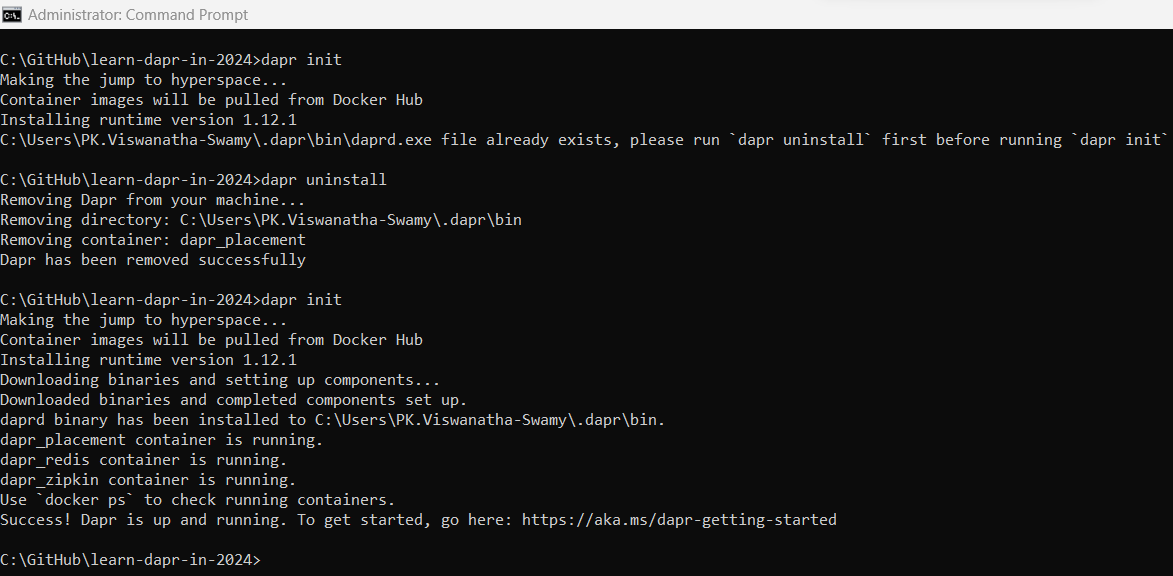
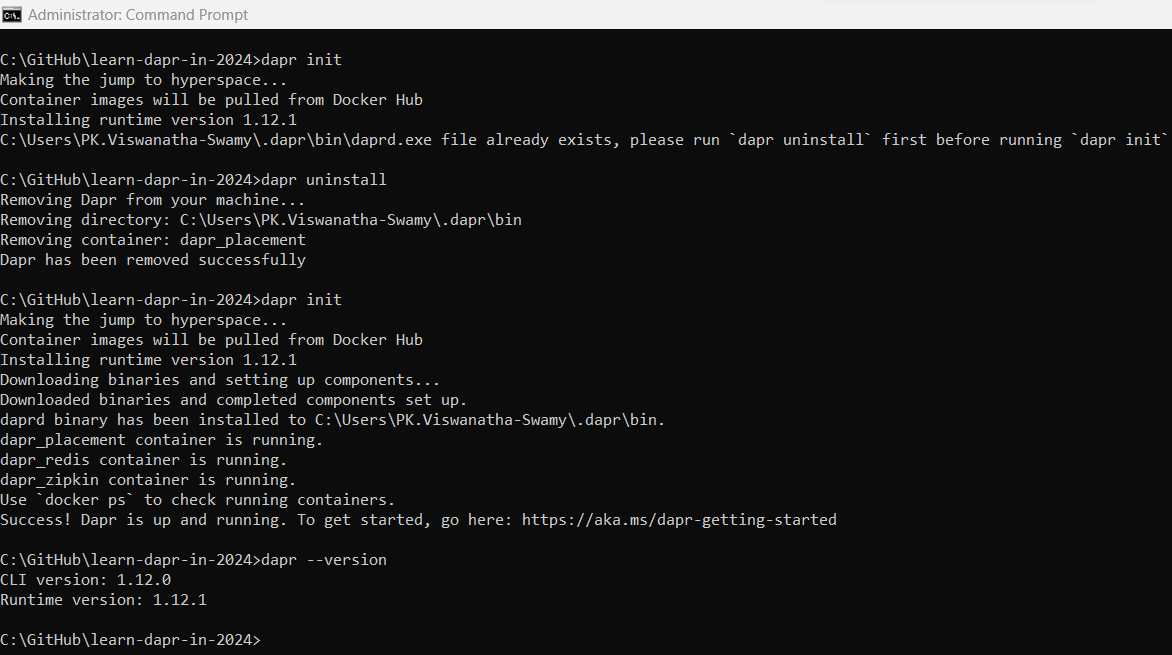
Changes

Changed region(s): [[0.0, 0.0, 1.0, 1.0]]

diff --git a/MSLearn/20nov-getting-started-dapr/README.md b/MSLearn/20nov-getting-started-dapr/README.md
@@ -66,6 +66,10 @@
 > 1. Install Dapr CLI <https://docs.dapr.io/getting-started/install-dapr-cli/>
 > 1. Verify Dapr CLI installation
 
+```bash
+dapr
+```
+
 ![Verify Dapr Installation | 100x100](./Documentation/Images/Dapr_Installation.PNG)
 
 ## 4. Initialize Dapr in your local environment
@@ -78,7 +82,6 @@
 dapr uninstall
 dapr init
 dapr --version
-docker ps
 ```
 
 ![Dapr Init | 100x100](./Documentation/Images/Dapr_Initialization.PNG)
@@ -93,7 +96,17 @@ docker ps
 
 ![Verify Dapr Installation | 100x100](./Documentation/Images/Dapr_Installation_1.PNG)
 
-## 6. Viewing the Dapr Dashboard
+## 6. Verify containers are running
+
+> 1. Discussion and Demo
+
+```bash
+docker ps
+```
+
+![Dapr Docker Containers | 100x100](./Documentation/Images/Dapr_Docker_Containers.PNG)
+
+## 7. Viewing the Dapr Dashboard
 
 > 1. Discussion and Demo
 > 1. Install Dapr dashboard <https://docs.dapr.io/getting-started/install-dapr-dashboard/>
